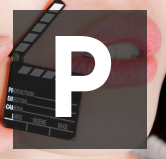
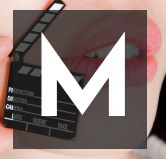
Change images

Changed region(s): [[0.241, 0.2013, 0.753, 0.7547]]

diff --git a/src/app/containers/default-layout/layout.component.html b/src/app/containers/default-layout/layout.component.html
@@ -7,7 +7,7 @@
 >
   <c-sidebar-brand
     [brandFull]="{
-      src: '/assets/images/Pussy-Ventures-Logo.png',
+      src: '/assets/images/MetArt.tube.png',
       width: 255,
       height: 66,
       alt: 'CoreUI Logo'
